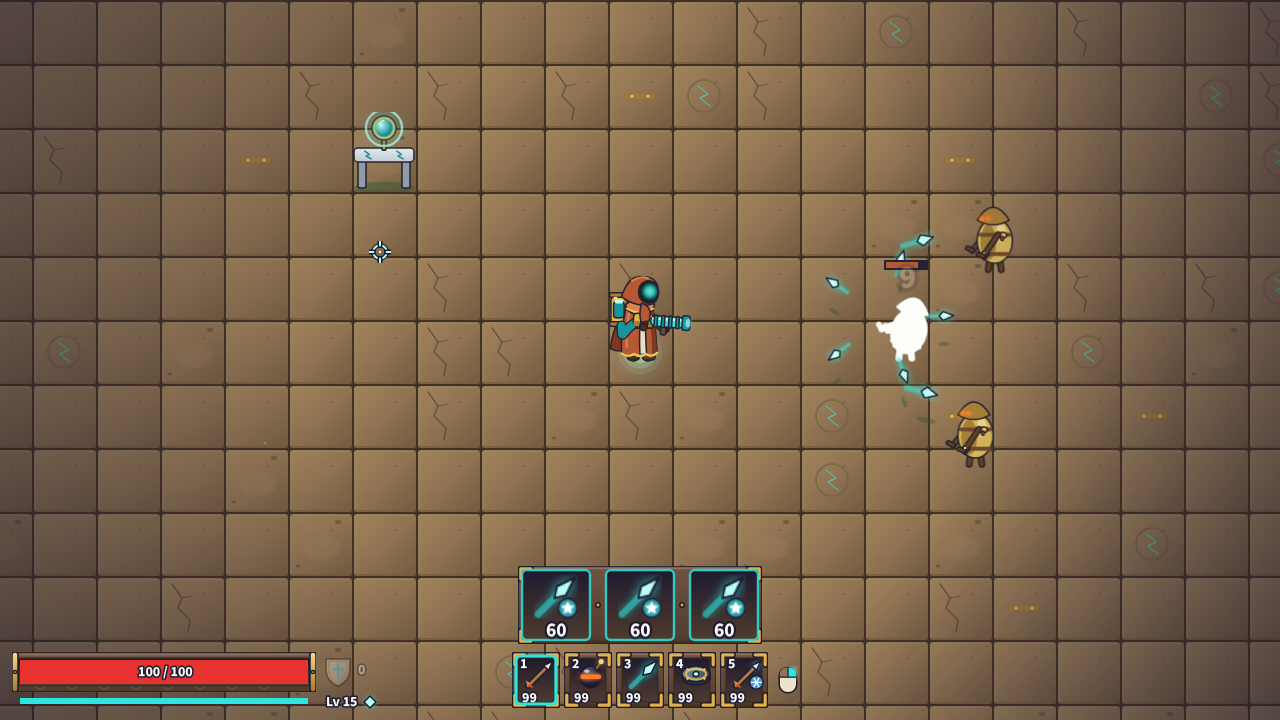
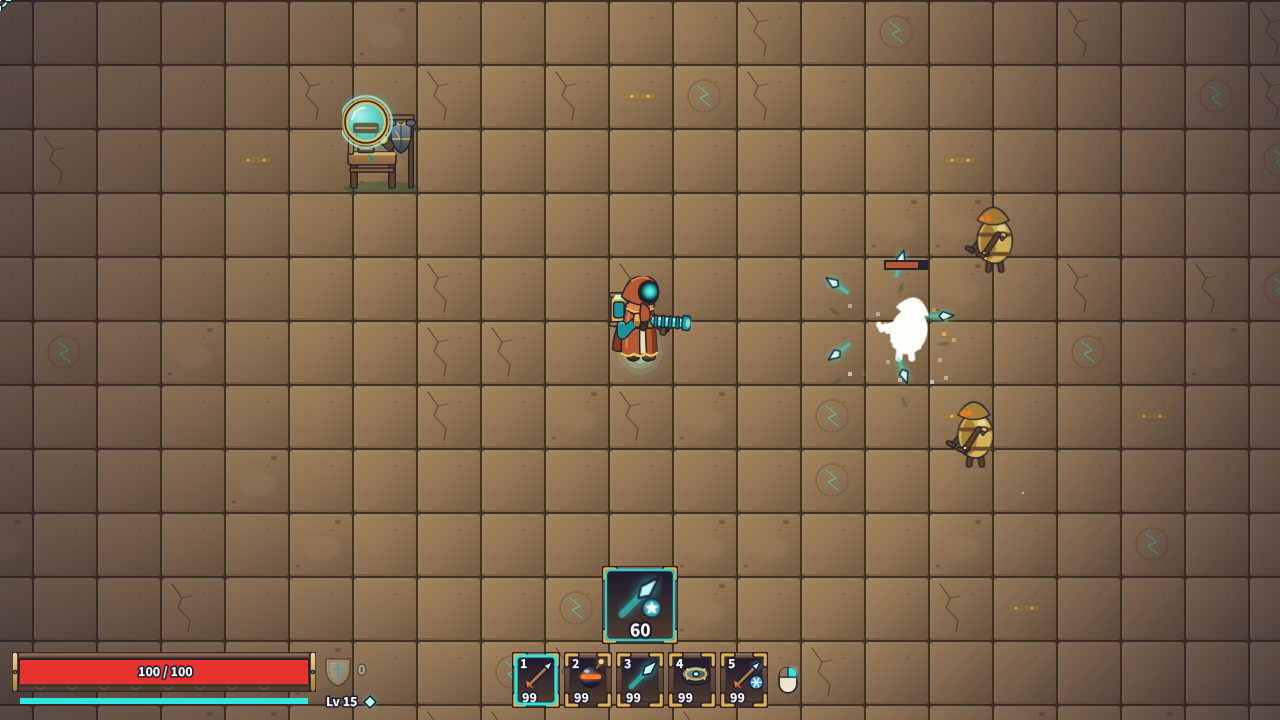
054 review: the star shot loads Split bolts into one entrance only; 054/04 retaken as one clean 5-point star
Claude-Session: https://claude.ai/code/session_019ig8gw5L4yavYF6tvwkS5C

diff --git a/tests/e2e/combatPage.ts b/tests/e2e/combatPage.ts
@@ -1,7 +1,7 @@
 import { expect, type Page } from '@playwright/test';
 import { XP_CURVE } from '../../src/data/leveling';
 import { boot, cameraSettled, quietScreen } from './helpers';
-import { bootSandbox, openPanel, setRound } from './sandboxPage';
+import { bootSandbox } from './sandboxPage';
 
 // 054's setups for its e2e and review shots: Blastfletch taken and an arrow burning past its Pool, and a star shot
 // fired from the sandbox, the sim held just after its burst.
@@ -44,15 +44,16 @@ export async function burningArrow(page: Page, after = 0): Promise<boolean> {
   return caught;
 }
 
-/** `?sandbox` with Split bolts in every entrance, a Husk 150 px right and two more round it; fires and holds the sim `after` ticks past the burst. */
+/** `?sandbox` with Split bolts in one entrance only (the others empty, so one bolt makes one clean 5-point star), a Husk 150 px right and two more round it; fires and holds the sim `after` ticks past the burst, returning the Shards then in flight. */
 export async function starShot(page: Page, after: number): Promise<number> {
   await bootSandbox(page);
-  await openPanel(page);
-  await setRound(page, 0, 'ley-bolt+split');
-  await setRound(page, 1, 'ley-bolt+split');
-  await setRound(page, 2, 'ley-bolt+split');
-  await page.keyboard.press('Backquote');
-  await expect.poll(() => page.evaluate(() => window.__GAME__?.ui().sandbox?.open)).toBe(false);
+  // Loaded through the sandbox's own loadout command (as volleyShape's), not the panel's clicks.
+  await page.evaluate(() => {
+    const g = window.__GAME__;
+    if (!g) throw new Error('no game');
+    (['ley-bolt+split', null, null] as const).forEach((round, entrance) => g.step(1, { sandbox: { kind: 'loadout', entrance, round } }));
+  });
+  await expect.poll(() => page.evaluate(() => window.__GAME__?.getState().loadout)).toEqual(['ley-bolt+split', null, null]);
   await quietScreen(page);
   return page.evaluate((ticks) => {
     const g = window.__GAME__;
